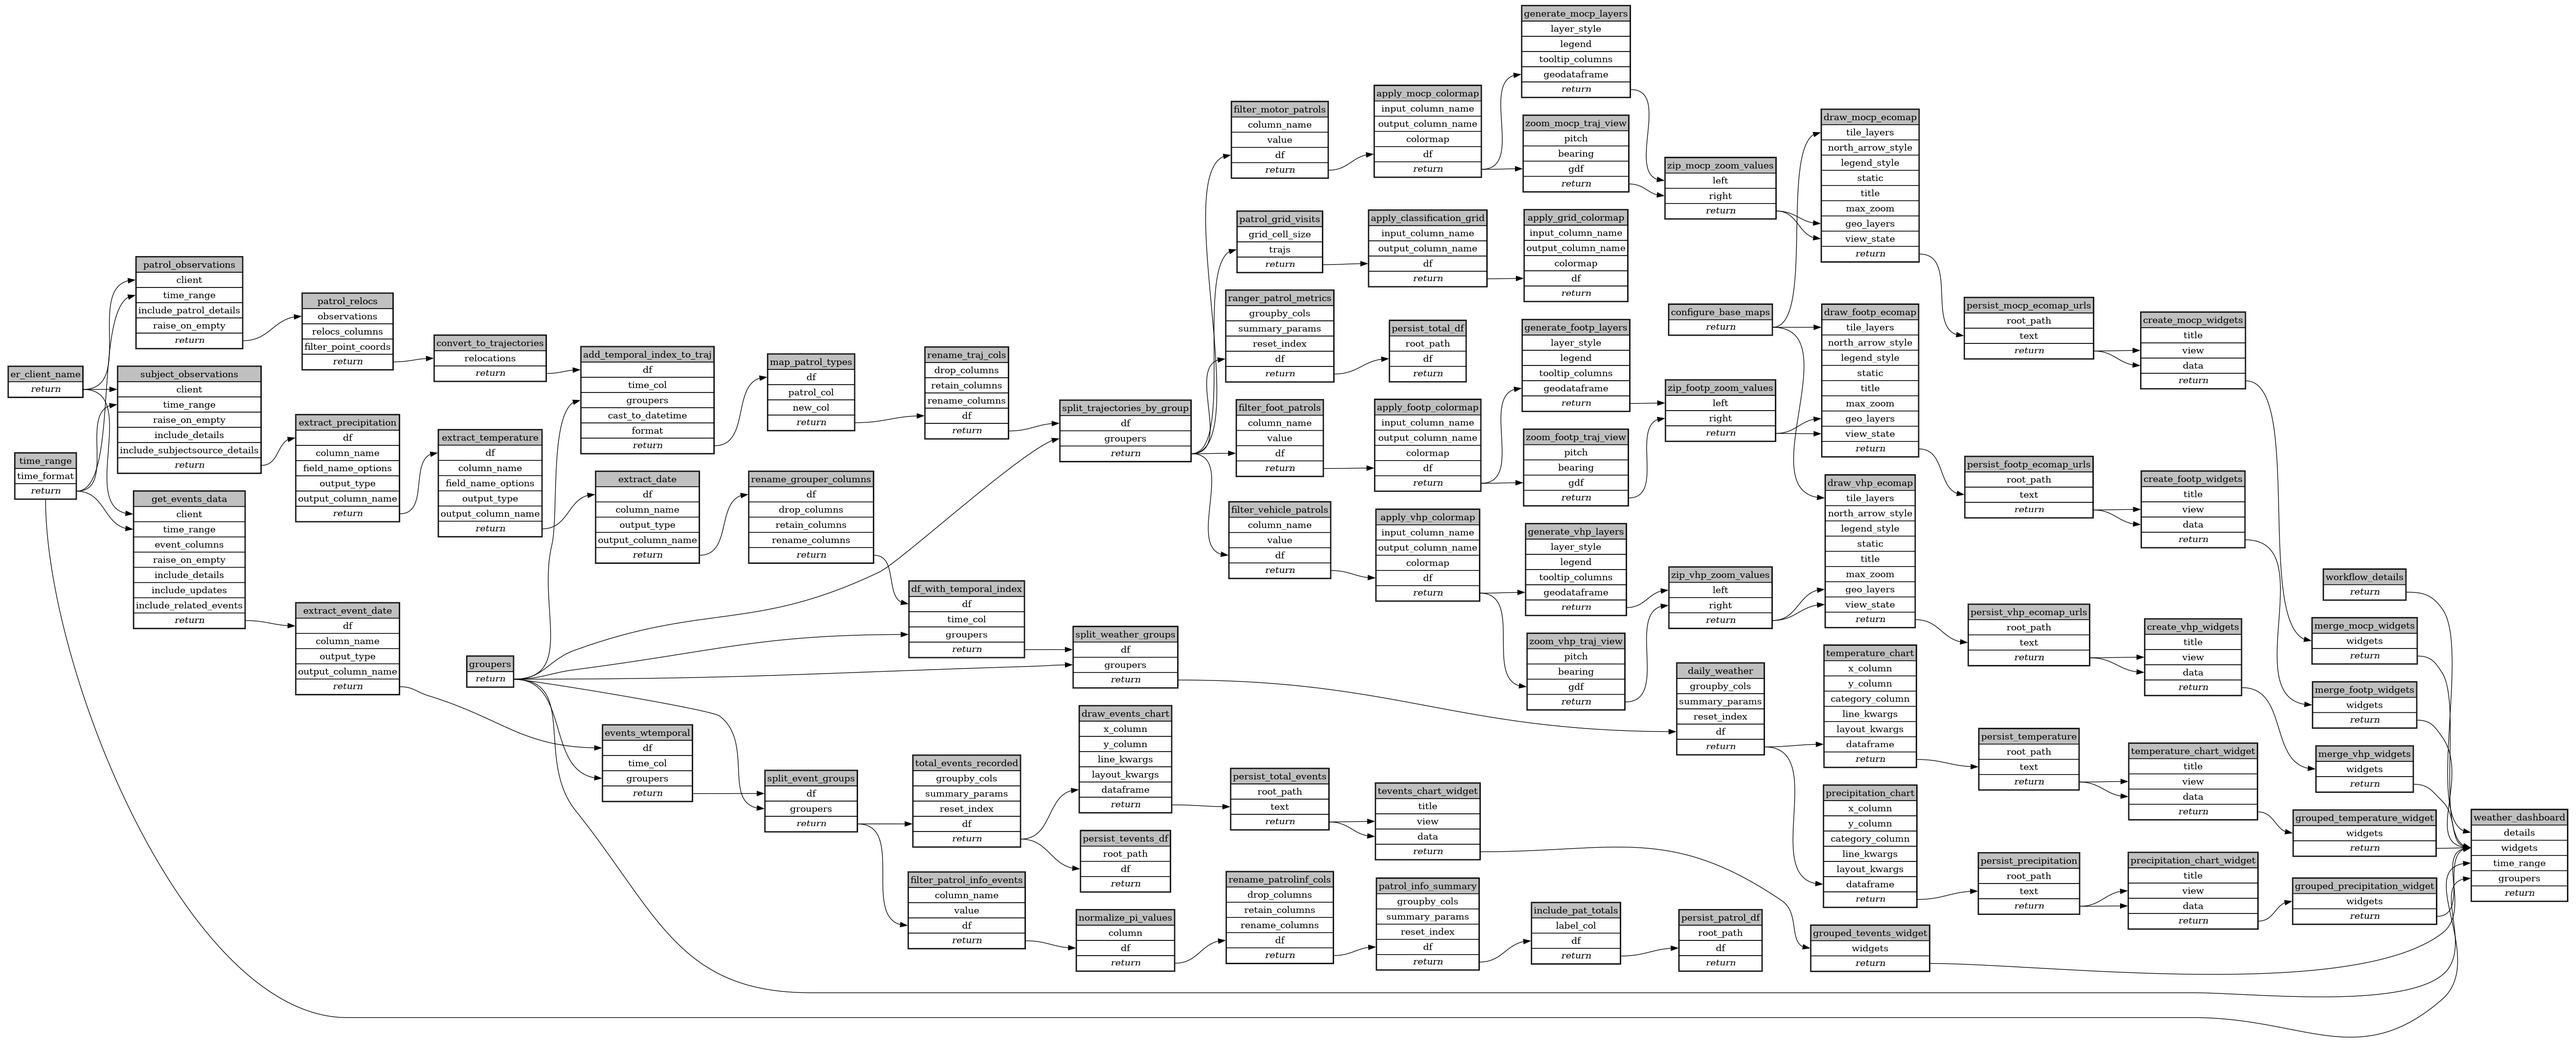
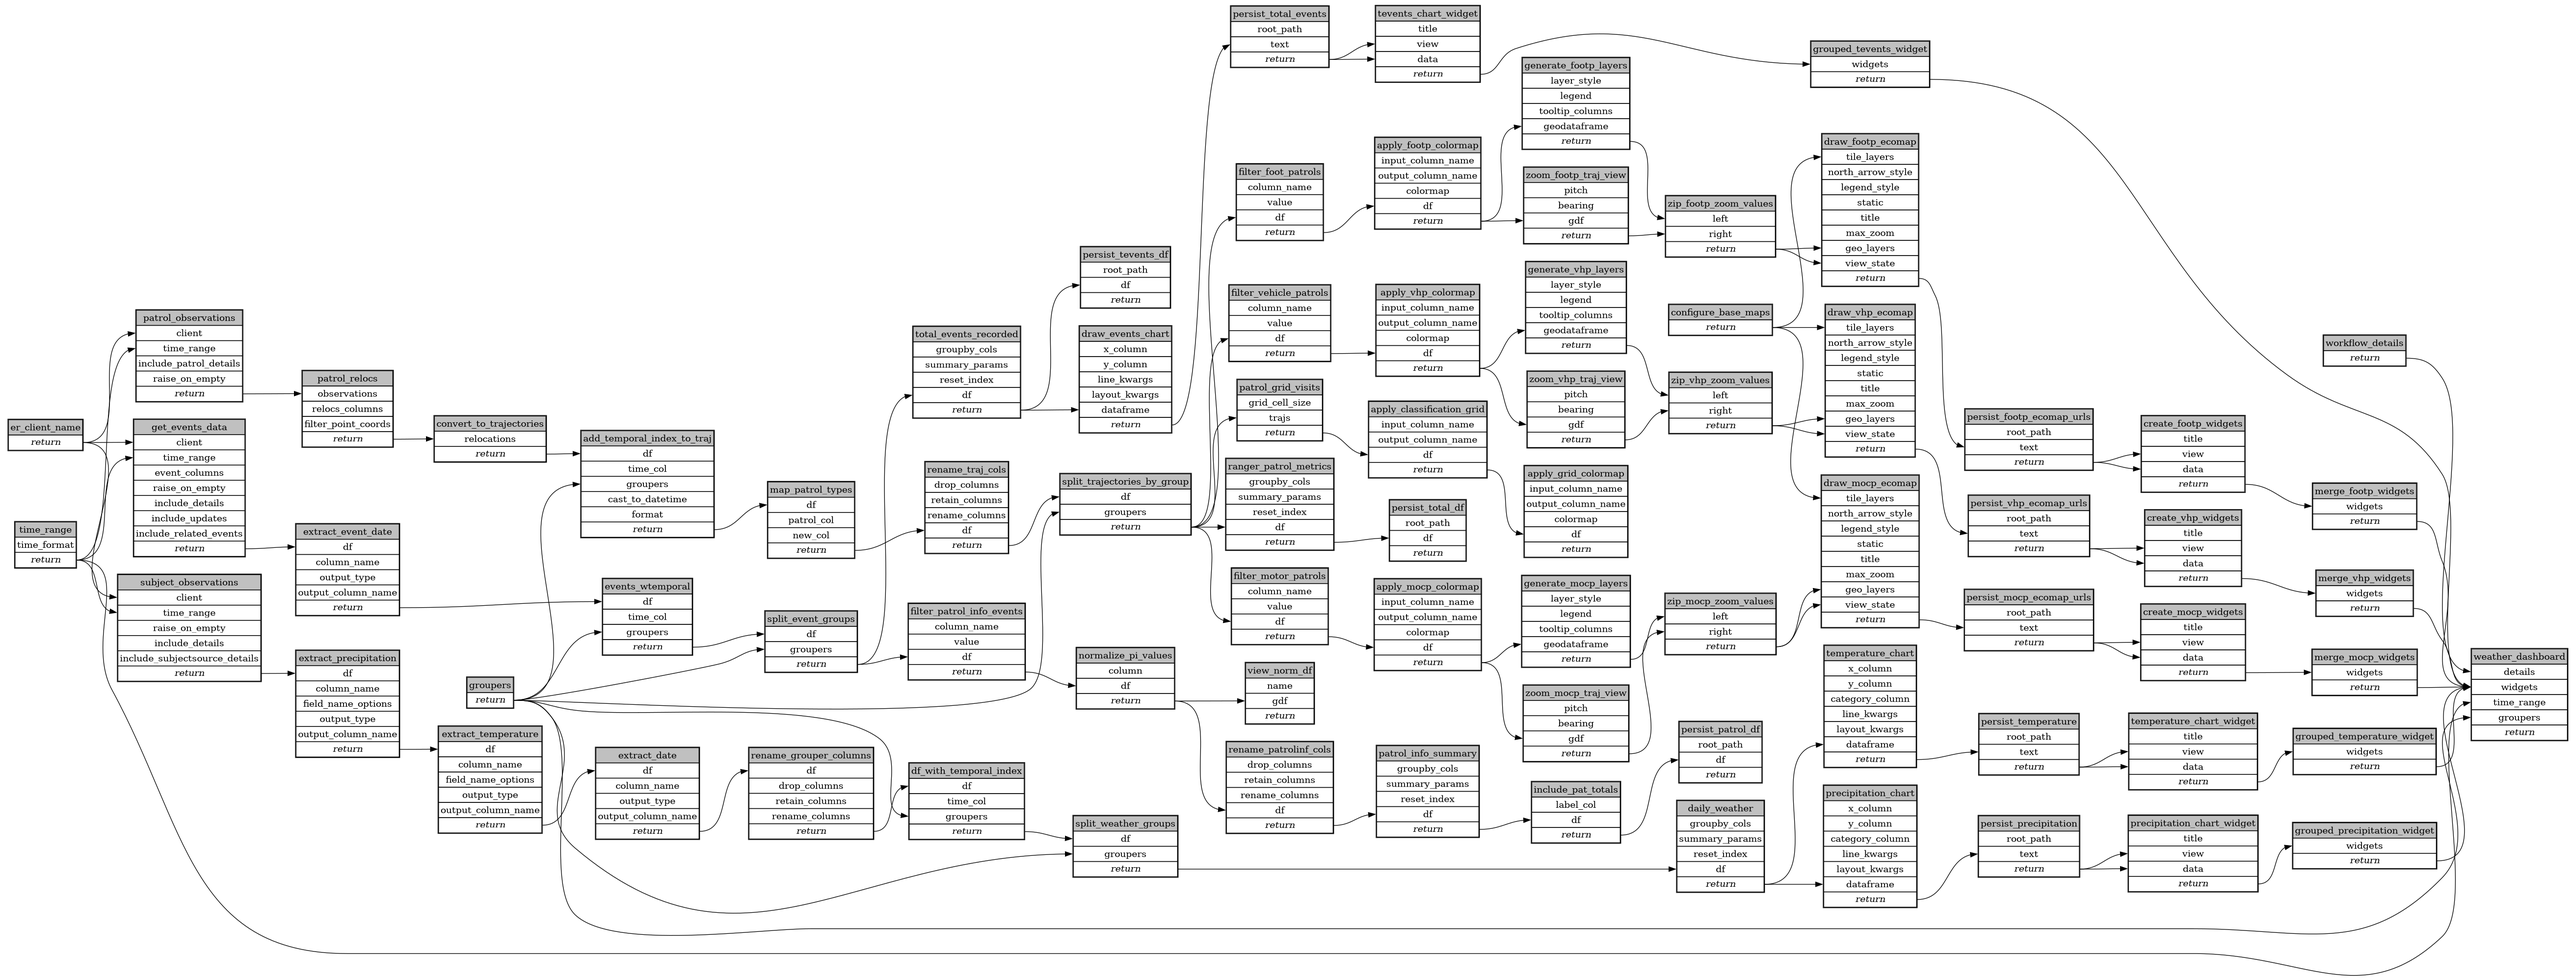
modify spec.yaml

Changed region(s): [[0.0, 0.0, 0.9998, 0.9639], [0.7811, 0.9328, 0.9061, 0.9639], [0.9061, 0.995, 0.9373, 1.0]]

diff --git a/workflows/customized_report/ecoscope-workflows-customized-report-workflow/ecoscope_workflows_customized_report_workflow/dags/run_async_mock_io.py b/workflows/customized_report/ecoscope-workflows-customized-report-workflow/ecoscope_workflows_customized_report_workflow/dags/run_async_mock_io.py
@@ -57,7 +57,7 @@ from ecoscope_workflows_ext_ecoscope.tasks.analysis import summarize_df
 from ecoscope_workflows_ext_ecoscope.tasks.io import persist_df
 from ecoscope_workflows_ext_ecoscope.tasks.results import draw_line_chart
 from ecoscope_workflows_ext_ecoscope.tasks.transformation import normalize_column
-from ecoscope_workflows_ext_mnc.tasks import add_totals_row, filter_by_value
+from ecoscope_workflows_ext_mnc.tasks import add_totals_row, filter_by_value, view_df
 
 get_patrol_observations = create_task_magicmock(  # 🧪
     anchor="ecoscope_workflows_ext_ecoscope.tasks.io",  # 🧪
@@ -140,6 +140,7 @@ def main(params: Params):
         "grouped_tevents_widget": ["tevents_chart_widget"],
         "filter_patrol_info_events": ["split_event_groups"],
         "normalize_pi_values": ["filter_patrol_info_events"],
+        "view_norm_df": ["normalize_pi_values"],
         "rename_patrolinf_cols": ["normalize_pi_values"],
         "patrol_info_summary": ["rename_patrolinf_cols"],
         "include_pat_totals": ["patrol_info_summary"],
@@ -692,6 +693,20 @@ def main(params: Params):
             kwargs={
                 "argnames": ["df"],
                 "argvalues": DependsOn("filter_patrol_info_events"),
+            },
+        ),
+        "view_norm_df": Node(
+            async_task=view_df.validate()
+            .handle_errors(task_instance_id="view_norm_df")
+            .set_executor("lithops"),
+            partial={
+                "name": "Patrol information events",
+            }
+            | (params_dict.get("view_norm_df") or {}),
+            method="mapvalues",
+            kwargs={
+                "argnames": ["gdf"],
+                "argvalues": DependsOn("normalize_pi_values"),
             },
         ),
         "rename_patrolinf_cols": Node(

diff --git a/workflows/customized_report/ecoscope-workflows-customized-report-workflow/ecoscope_workflows_customized_report_workflow/dags/run_async.py b/workflows/customized_report/ecoscope-workflows-customized-report-workflow/ecoscope_workflows_customized_report_workflow/dags/run_async.py
@@ -52,6 +52,7 @@ from ecoscope_workflows_ext_mnc.tasks import (
     create_patrol_coverage_grid,
     create_view_state_from_gdf,
     filter_by_value,
+    view_df,
     zip_grouped_by_key,
 )
 
@@ -95,6 +96,7 @@ def main(params: Params):
         "grouped_tevents_widget": ["tevents_chart_widget"],
         "filter_patrol_info_events": ["split_event_groups"],
         "normalize_pi_values": ["filter_patrol_info_events"],
+        "view_norm_df": ["normalize_pi_values"],
         "rename_patrolinf_cols": ["normalize_pi_values"],
         "patrol_info_summary": ["rename_patrolinf_cols"],
         "include_pat_totals": ["patrol_info_summary"],
@@ -647,6 +649,20 @@ def main(params: Params):
             kwargs={
                 "argnames": ["df"],
                 "argvalues": DependsOn("filter_patrol_info_events"),
+            },
+        ),
+        "view_norm_df": Node(
+            async_task=view_df.validate()
+            .handle_errors(task_instance_id="view_norm_df")
+            .set_executor("lithops"),
+            partial={
+                "name": "Patrol information events",
+            }
+            | (params_dict.get("view_norm_df") or {}),
+            method="mapvalues",
+            kwargs={
+                "argnames": ["gdf"],
+                "argvalues": DependsOn("normalize_pi_values"),
             },
         ),
         "rename_patrolinf_cols": Node(

diff --git a/workflows/customized_report/ecoscope-workflows-customized-report-workflow/ecoscope_workflows_customized_report_workflow/dags/run_sequential_mock_io.py b/workflows/customized_report/ecoscope-workflows-customized-report-workflow/ecoscope_workflows_customized_report_workflow/dags/run_sequential_mock_io.py
@@ -56,7 +56,7 @@ from ecoscope_workflows_ext_ecoscope.tasks.analysis import summarize_df
 from ecoscope_workflows_ext_ecoscope.tasks.io import persist_df
 from ecoscope_workflows_ext_ecoscope.tasks.results import draw_line_chart
 from ecoscope_workflows_ext_ecoscope.tasks.transformation import normalize_column
-from ecoscope_workflows_ext_mnc.tasks import add_totals_row, filter_by_value
+from ecoscope_workflows_ext_mnc.tasks import add_totals_row, filter_by_value, view_df
 
 get_patrol_observations = create_task_magicmock(  # 🧪
     anchor="ecoscope_workflows_ext_ecoscope.tasks.io",  # 🧪
@@ -541,6 +541,15 @@ def main(params: Params):
             column="event_details", **(params_dict.get("normalize_pi_values") or {})
         )
         .mapvalues(argnames=["df"], argvalues=filter_patrol_info_events)
+    )
+
+    view_norm_df = (
+        view_df.validate()
+        .handle_errors(task_instance_id="view_norm_df")
+        .partial(
+            name="Patrol information events", **(params_dict.get("view_norm_df") or {})
+        )
+        .mapvalues(argnames=["gdf"], argvalues=normalize_pi_values)
     )
 
     rename_patrolinf_cols = (

diff --git a/workflows/customized_report/ecoscope-workflows-customized-report-workflow/ecoscope_workflows_customized_report_workflow/dags/jupytext.py b/workflows/customized_report/ecoscope-workflows-customized-report-workflow/ecoscope_workflows_customized_report_workflow/dags/jupytext.py
@@ -61,6 +61,7 @@ from ecoscope_workflows_ext_mnc.tasks import (
     create_patrol_coverage_grid,
     create_view_state_from_gdf,
     filter_by_value,
+    view_df,
     zip_grouped_by_key,
 )
 
@@ -916,6 +917,25 @@ normalize_pi_values = (
     normalize_column.handle_errors(task_instance_id="normalize_pi_values")
     .partial(column="event_details", **normalize_pi_values_params)
     .mapvalues(argnames=["df"], argvalues=filter_patrol_info_events)
+)
+
+
+# %% [markdown]
+# ## view normalized patrol information events
+
+# %%
+# parameters
+
+view_norm_df_params = dict()
+
+# %%
+# call the task
+
+
+view_norm_df = (
+    view_df.handle_errors(task_instance_id="view_norm_df")
+    .partial(name="Patrol information events", **view_norm_df_params)
+    .mapvalues(argnames=["gdf"], argvalues=normalize_pi_values)
 )
 
 

diff --git a/workflows/customized_report/ecoscope-workflows-customized-report-workflow/ecoscope_workflows_customized_report_workflow/dags/run_sequential.py b/workflows/customized_report/ecoscope-workflows-customized-report-workflow/ecoscope_workflows_customized_report_workflow/dags/run_sequential.py
@@ -51,6 +51,7 @@ from ecoscope_workflows_ext_mnc.tasks import (
     create_patrol_coverage_grid,
     create_view_state_from_gdf,
     filter_by_value,
+    view_df,
     zip_grouped_by_key,
 )
 
@@ -496,6 +497,15 @@ def main(params: Params):
             column="event_details", **(params_dict.get("normalize_pi_values") or {})
         )
         .mapvalues(argnames=["df"], argvalues=filter_patrol_info_events)
+    )
+
+    view_norm_df = (
+        view_df.validate()
+        .handle_errors(task_instance_id="view_norm_df")
+        .partial(
+            name="Patrol information events", **(params_dict.get("view_norm_df") or {})
+        )
+        .mapvalues(argnames=["gdf"], argvalues=normalize_pi_values)
     )
 
     rename_patrolinf_cols = (

diff --git a/workflows/customized_report/ecoscope-workflows-customized-report-workflow/README.md b/workflows/customized_report/ecoscope-workflows-customized-report-workflow/README.md
@@ -5,8 +5,8 @@
 
 ```yaml
 # fingerprint:
-artifacts_sha256_basic: 8bdad89fcddfc6cba87cd2de9041274f804c53a4b69d3b89c5013a9c06172e77
-artifacts_sha256_strict: a767818bd4bfaa9893f9eee464d546330be24778455fa6bdb1b5f70b97083e99
+artifacts_sha256_basic: 08e89dd70dd5a02911d402eb812bdfbd4feaa86c7f8a828838b7748092e4b885
+artifacts_sha256_strict: 907166ee120f4f06b1be790a3bc251d42b76c1c9122c32725a550ae70236d0fc
 installed_requirements:
 - channel: https://repo.prefix.dev/ecoscope-workflows/
   name: ecoscope-workflows-core
@@ -16,9 +16,9 @@ installed_requirements:
   version: {version: ==0.0.5}
 - channel: file:///tmp/ecoscope-workflows-custom/release/artifacts/
   name: ecoscope-workflows-ext-mnc
-  version: {version: ==10000.dev28+g30779e137.d20251023}
+  version: {version: ==10000.dev29+g177a0fc1d.d20251023}
 params_sha256: 3aa22fd43747dcd09c1bc280c29abdeaa8ce3ed6cca01608f13bcc1da8f6af71
-spec_sha256: 66722a833d6809fd54359b55778308cf2a55e24881b817e68c5f0907ef259386
+spec_sha256: 1bd9de1e8340c88122f9d402fef99ee8d4b52fe160b230bf67c66e62cbf45049
 
 ```
 
